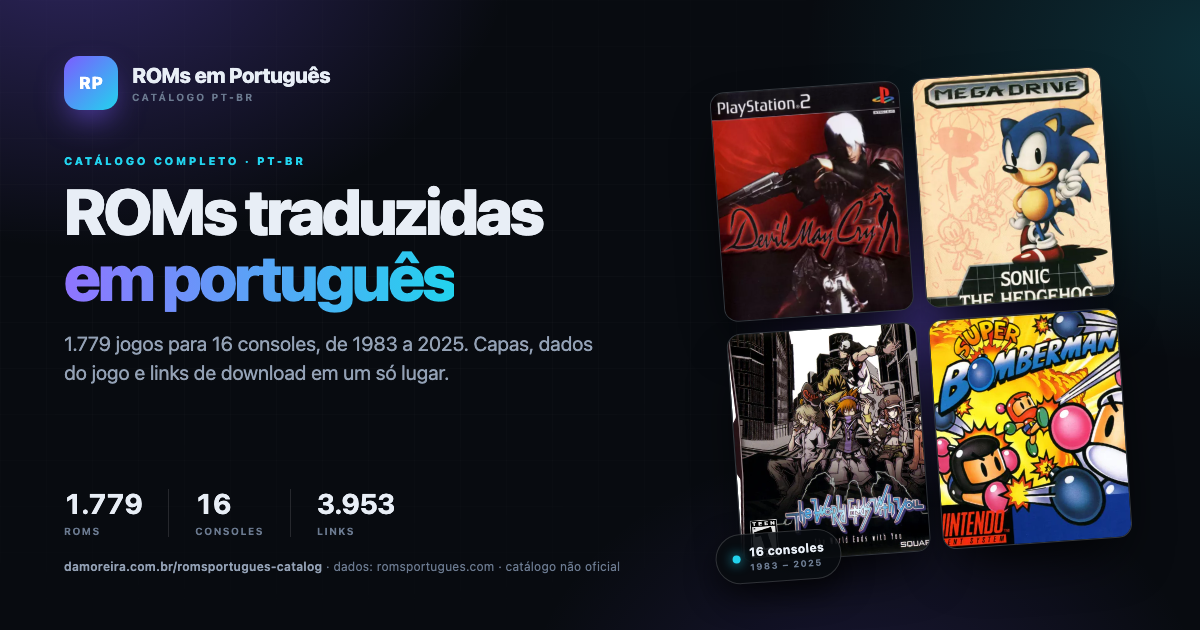
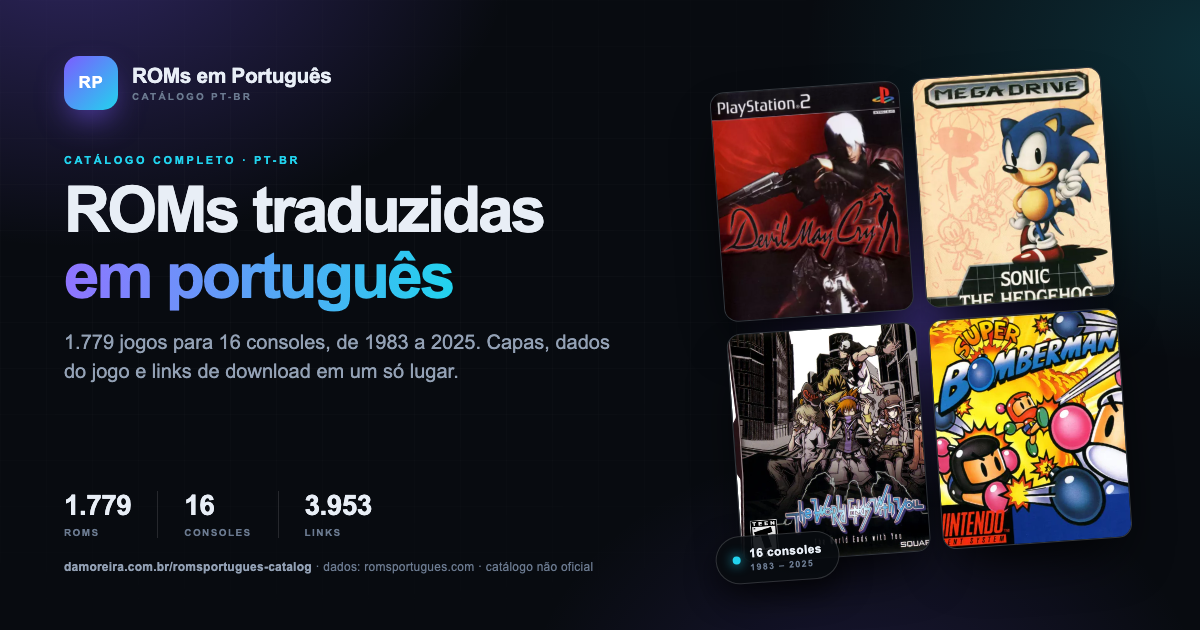
ci: add manual catalogue refresh workflow

diff --git a/make_og_image.py b/make_og_image.py
@@ -58,7 +58,7 @@ TEMPLATE = r"""<!doctype html>
   * { box-sizing: border-box; margin: 0; padding: 0; }
   html, body { width: 1200px; height: 630px; overflow: hidden; }
   body {
-    font-family: -apple-system, BlinkMacSystemFont, "Segoe UI", Roboto, "Helvetica Neue", Arial, sans-serif;
+    font-family: Arial, "Liberation Sans", "Helvetica Neue", sans-serif;
     background:
       radial-gradient(720px 520px at 6% -12%, rgba(124, 92, 255, .34), transparent 62%),
       radial-gradient(700px 520px at 102% 8%, rgba(34, 211, 238, .18), transparent 60%),

diff --git a/README.md b/README.md
@@ -57,7 +57,8 @@ Actions. The social card is rendered with headless Chrome.
 
 ```text
 .
-├── .github/workflows/pages.yml   # build + deploy to GitHub Pages
+├── .github/workflows/pages.yml             # build + deploy to GitHub Pages
+├── .github/workflows/refresh-catalog.yml   # manual scrape + rebuild + deploy
 ├── build_site.py                 # roms.csv -> site/
 ├── make_og_image.py              # roms.csv -> 1200x630 social card
 ├── scrape_roms.py                # romsportugues.com -> roms.csv
@@ -101,6 +102,30 @@ The build writes `site/` and then runs a **minification post-phase** over
 when debugging.
 
 ## Refresh the catalogue
+
+### From GitHub Actions (manual only)
+
+The workflow
+[`.github/workflows/refresh-catalog.yml`](.github/workflows/refresh-catalog.yml)
+does the whole refresh in CI. Its only trigger is **workflow_dispatch** — it
+never runs on a schedule or on push.
+
+1. Open **Actions → Refresh catalogue → Run workflow**.
+2. Pick the number of parallel scraping workers.
+3. The workflow will:
+   - scrape the full catalogue,
+   - validate the CSV (fails on any failed ROM page or fewer than 1,000 rows),
+   - regenerate `site_src/og-image.png`,
+   - build and minify the site,
+   - commit `roms.csv` and `site_src/og-image.png` when they change,
+   - deploy the freshly built site to GitHub Pages.
+
+It uses the built-in `GITHUB_TOKEN` (`contents: write`, `pages: write`,
+`id-token: write`) — no PAT is required. Because the bot push is made with
+`GITHUB_TOKEN`, it does not trigger the normal `pages.yml` workflow; the
+refresh workflow deploys its own artifact directly.
+
+### From your machine
 
 The scraper is polite by default: 8 workers, a global request delay, retries
 on 429/5xx, and per-ROM error reporting.
